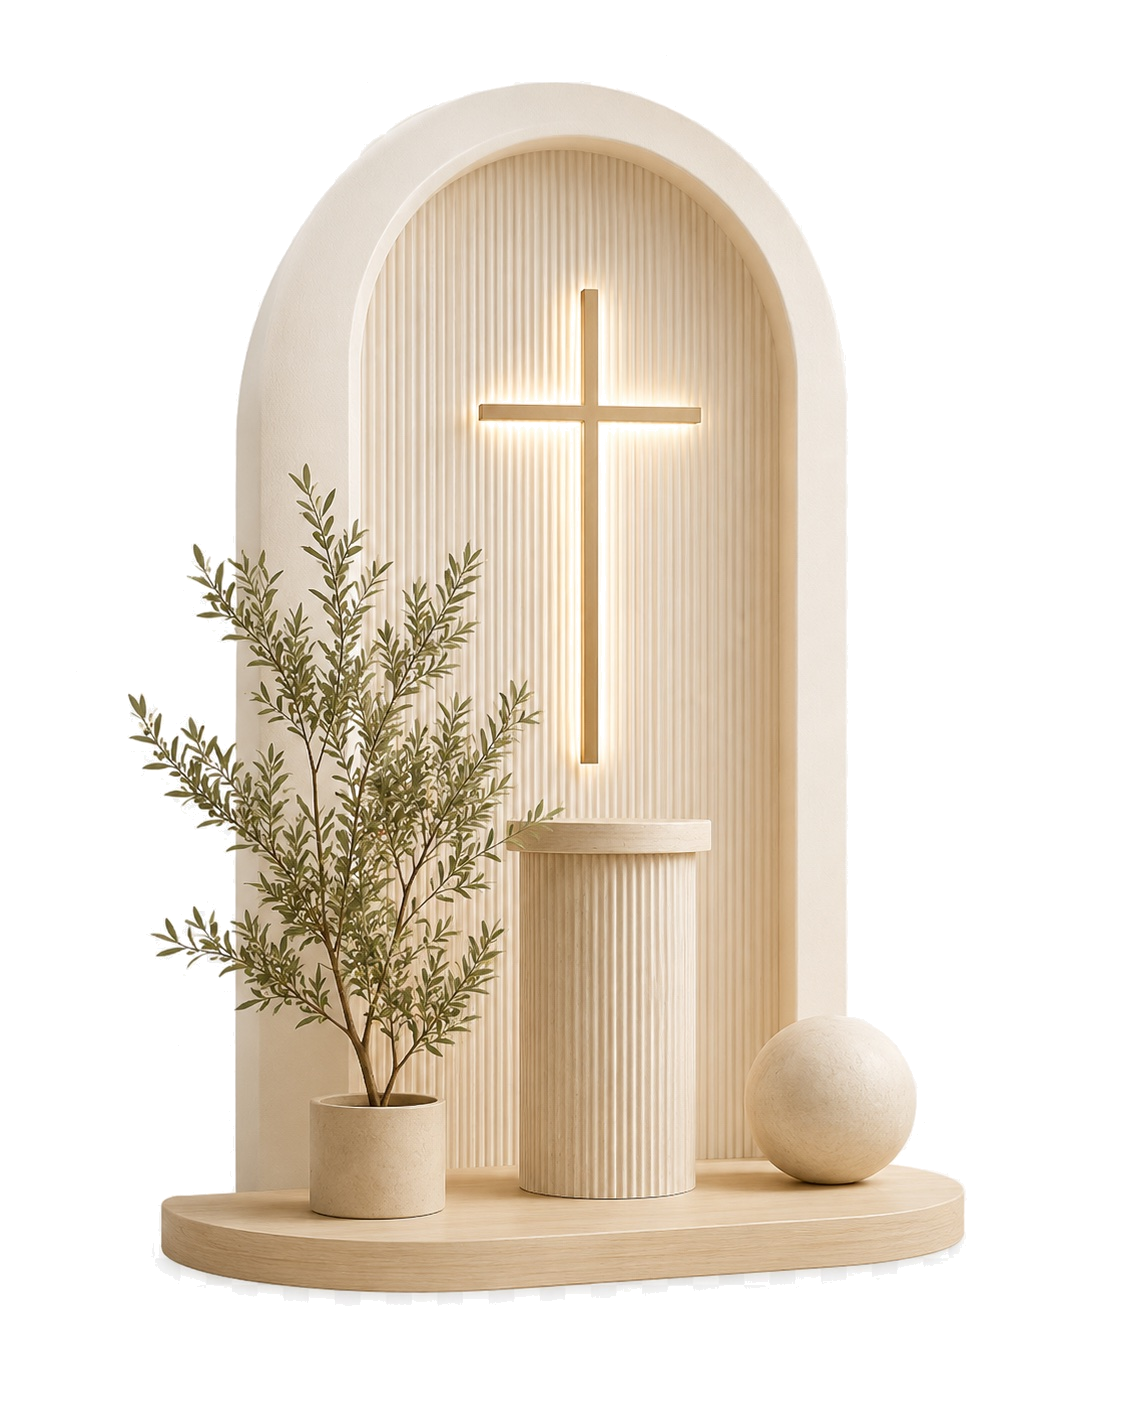
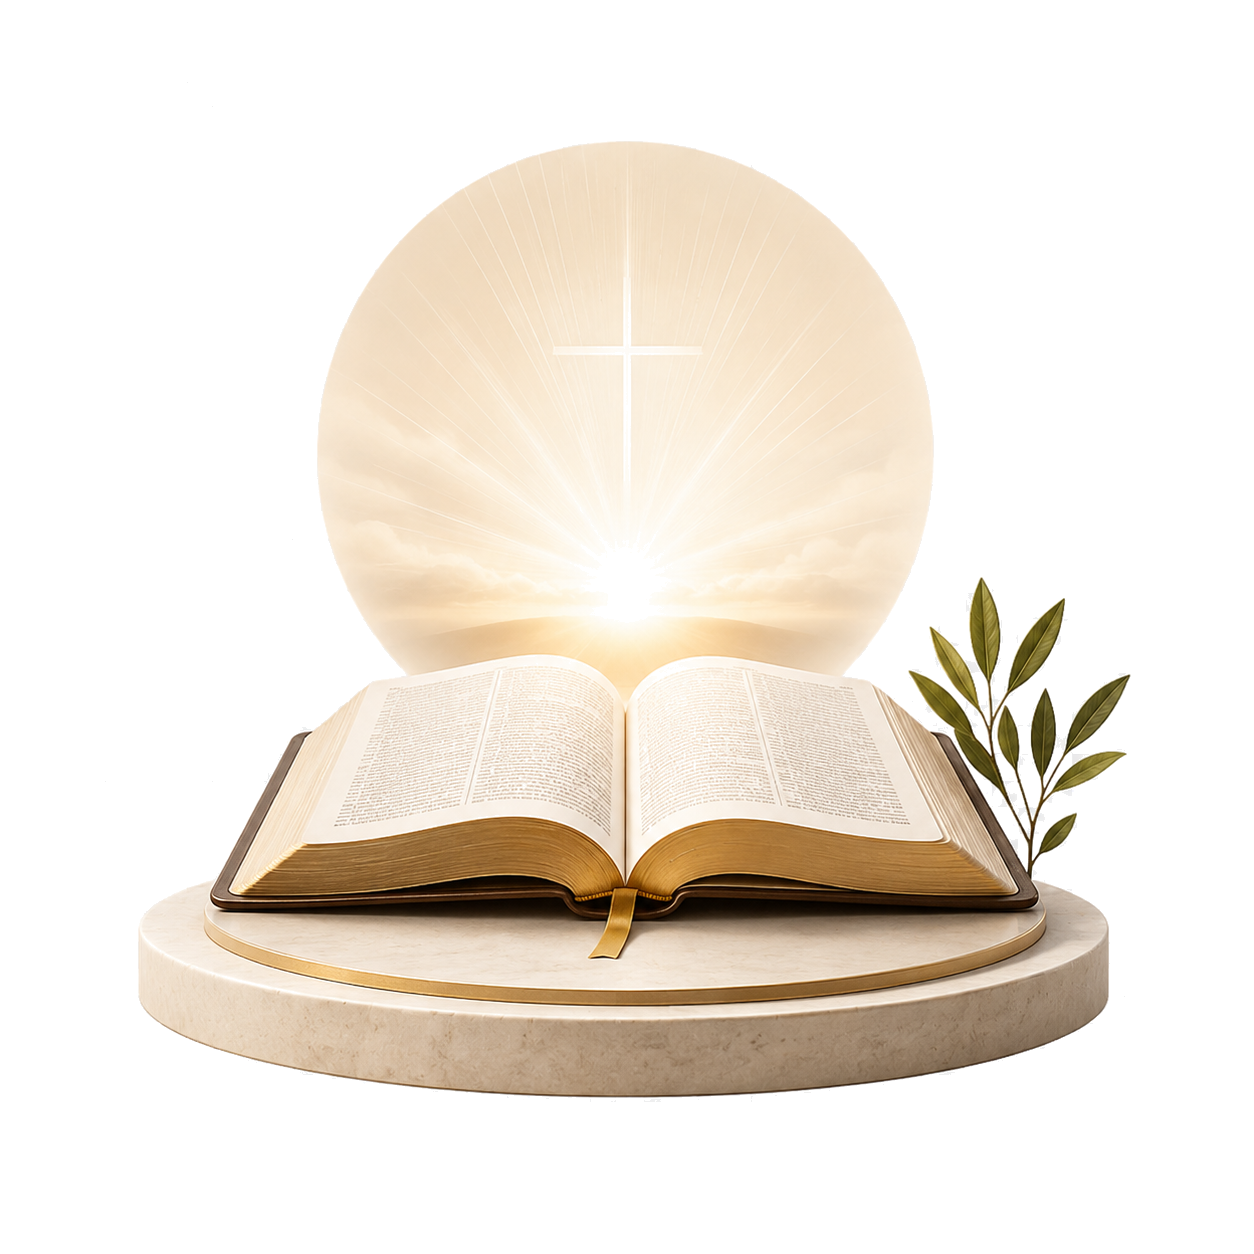
Swap hero to the open-Bible scene (cleaned to true transparency)
- Replace the hero image with the open Bible + sunburst cross + olive scene.
  The upload was an opaque RGB with a baked checkerboard; convert it to a
  real transparent PNG by stripping the neutral near-white grid while keeping
  the warm sunburst glow (verified the glow survives, no holes).
- Reframe HeroArt for this square, centred composition: object-contain in a
  wider column so the full scene (glow, Bible, podium, olive) shows and melts
  into the cream banner.
- Preserve the previous altar art as welcome-hero-altar.png for easy switch-back.

https://claude.ai/code/session_01J1sMYxZRQiSk2nfifPoGME

diff --git a/src/app/dashboard/page.tsx b/src/app/dashboard/page.tsx
@@ -182,19 +182,19 @@ function ReadinessRing({
   );
 }
 
-// ─── Hero sanctuary image (flush to the left edge, full height) ──────────
+// ─── Hero sanctuary image (centred scene, melts into the cream banner) ───
 
 function HeroArt() {
   return (
-    <div className="relative h-44 w-full md:h-auto md:w-[300px] lg:w-[330px] shrink-0">
-      {/* Tall portrait inset: fills the left of the banner and bleeds to the
-          edges. If the asset is missing, the cream banner shows through. */}
+    <div className="relative h-52 w-full md:h-auto md:w-[340px] lg:w-[380px] shrink-0">
+      {/* Whole scene shown via object-contain; its transparent surround melts
+          into the cream banner. If the asset is missing, the banner shows. */}
       {/* eslint-disable-next-line @next/next/no-img-element */}
       <img
         src="/images/dashboard/welcome-hero.png"
         alt=""
         aria-hidden
-        className="absolute inset-0 h-full w-full object-cover object-center"
+        className="absolute inset-0 h-full w-full object-contain object-center"
         onError={(e) => {
           e.currentTarget.style.display = "none";
         }}
